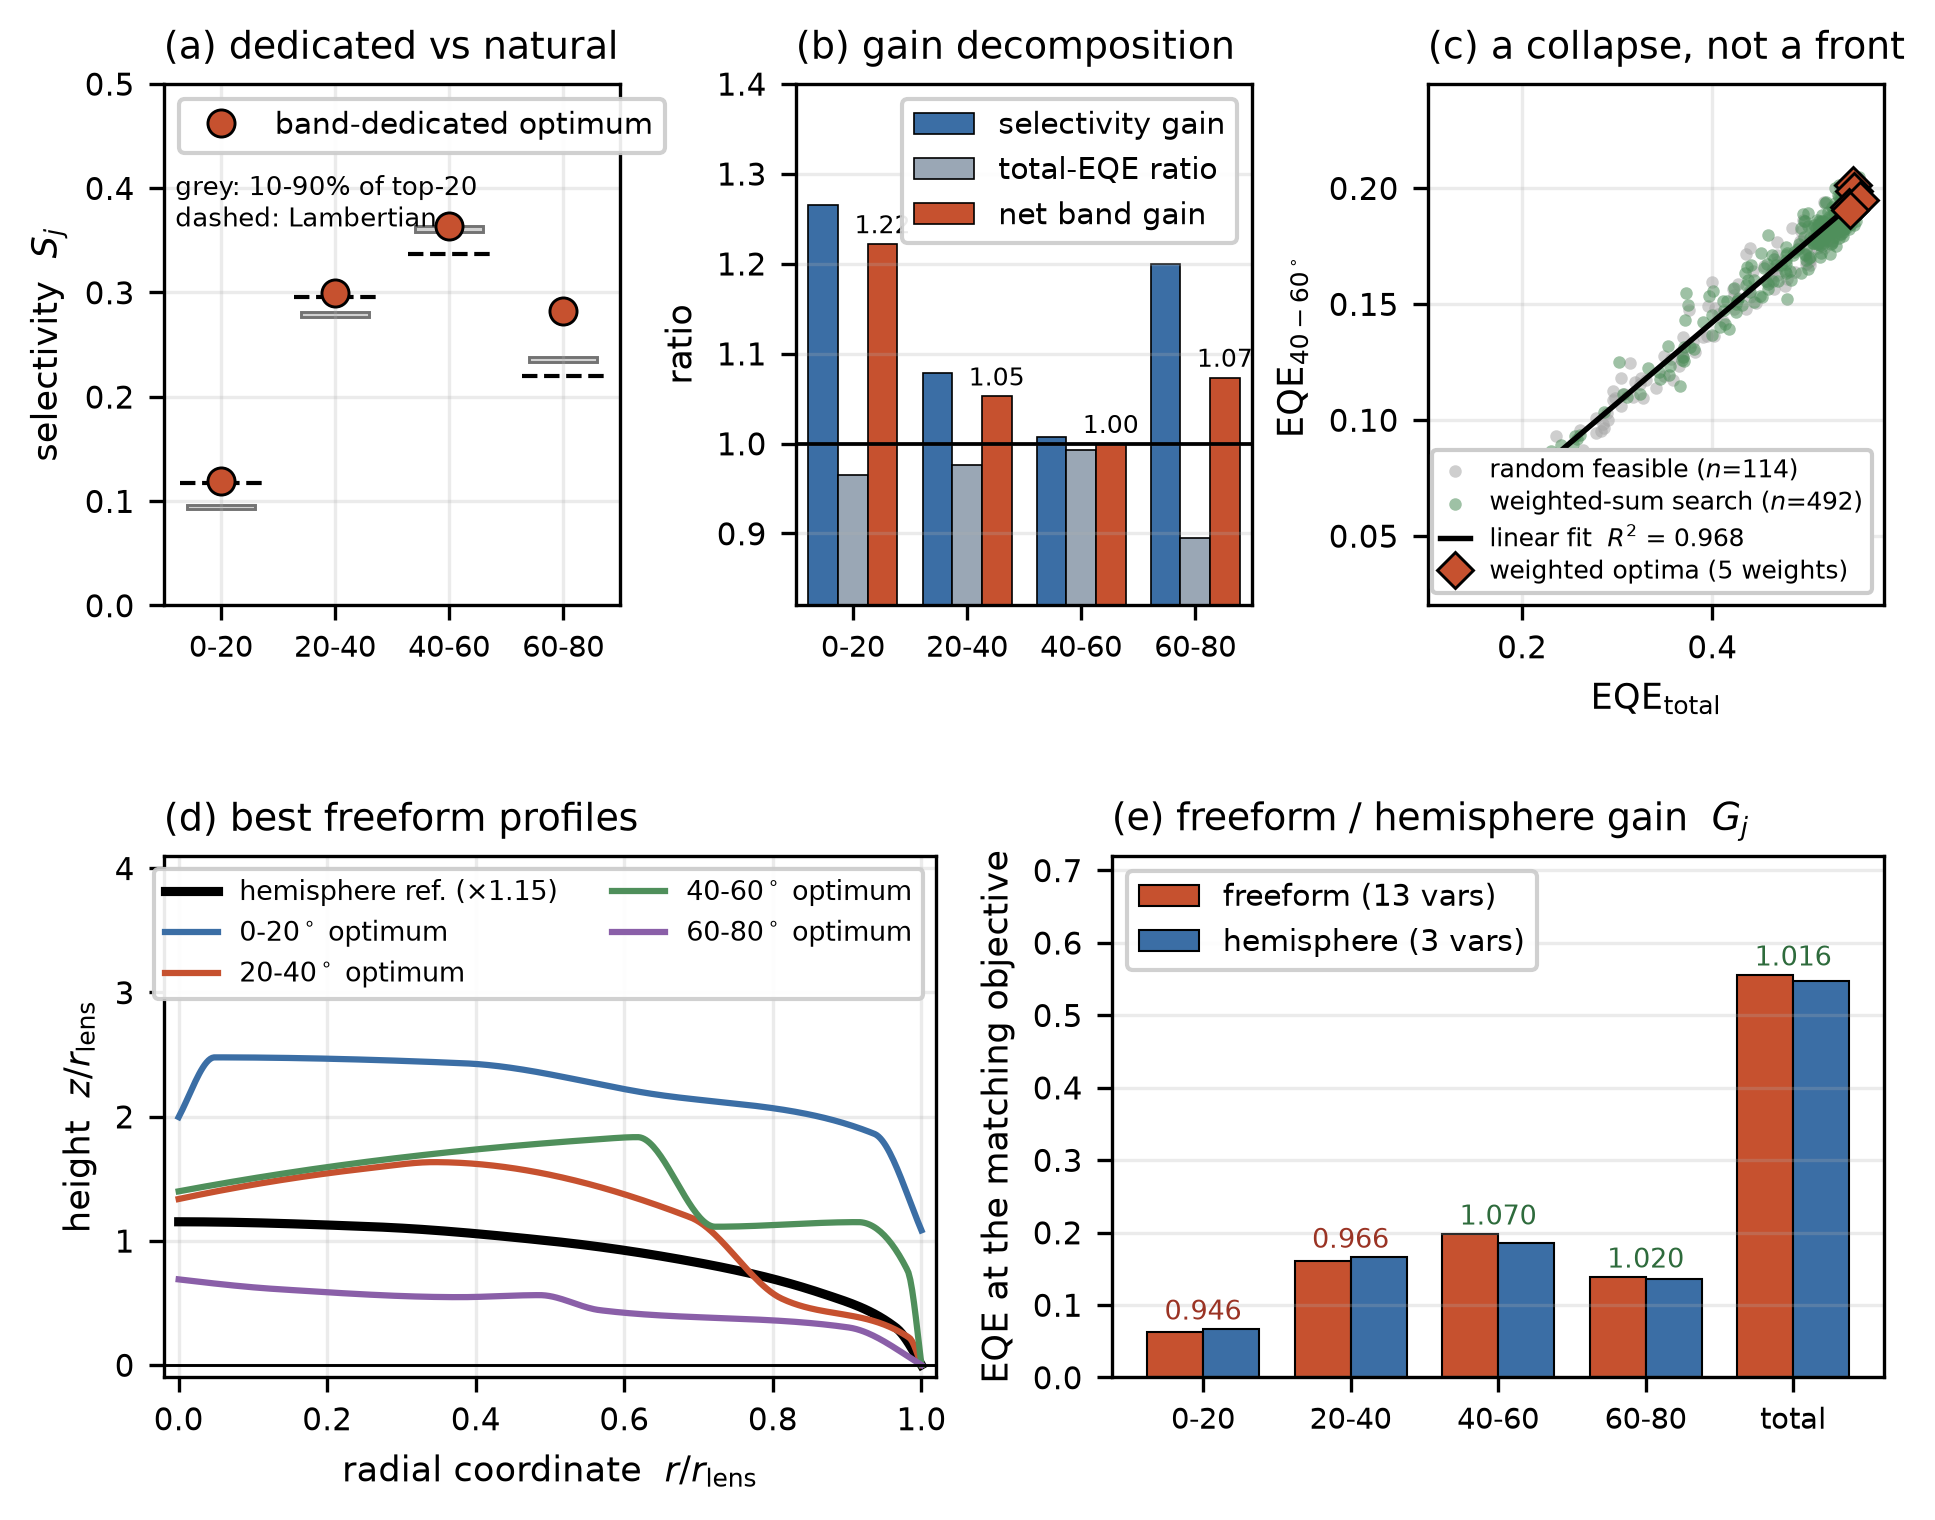
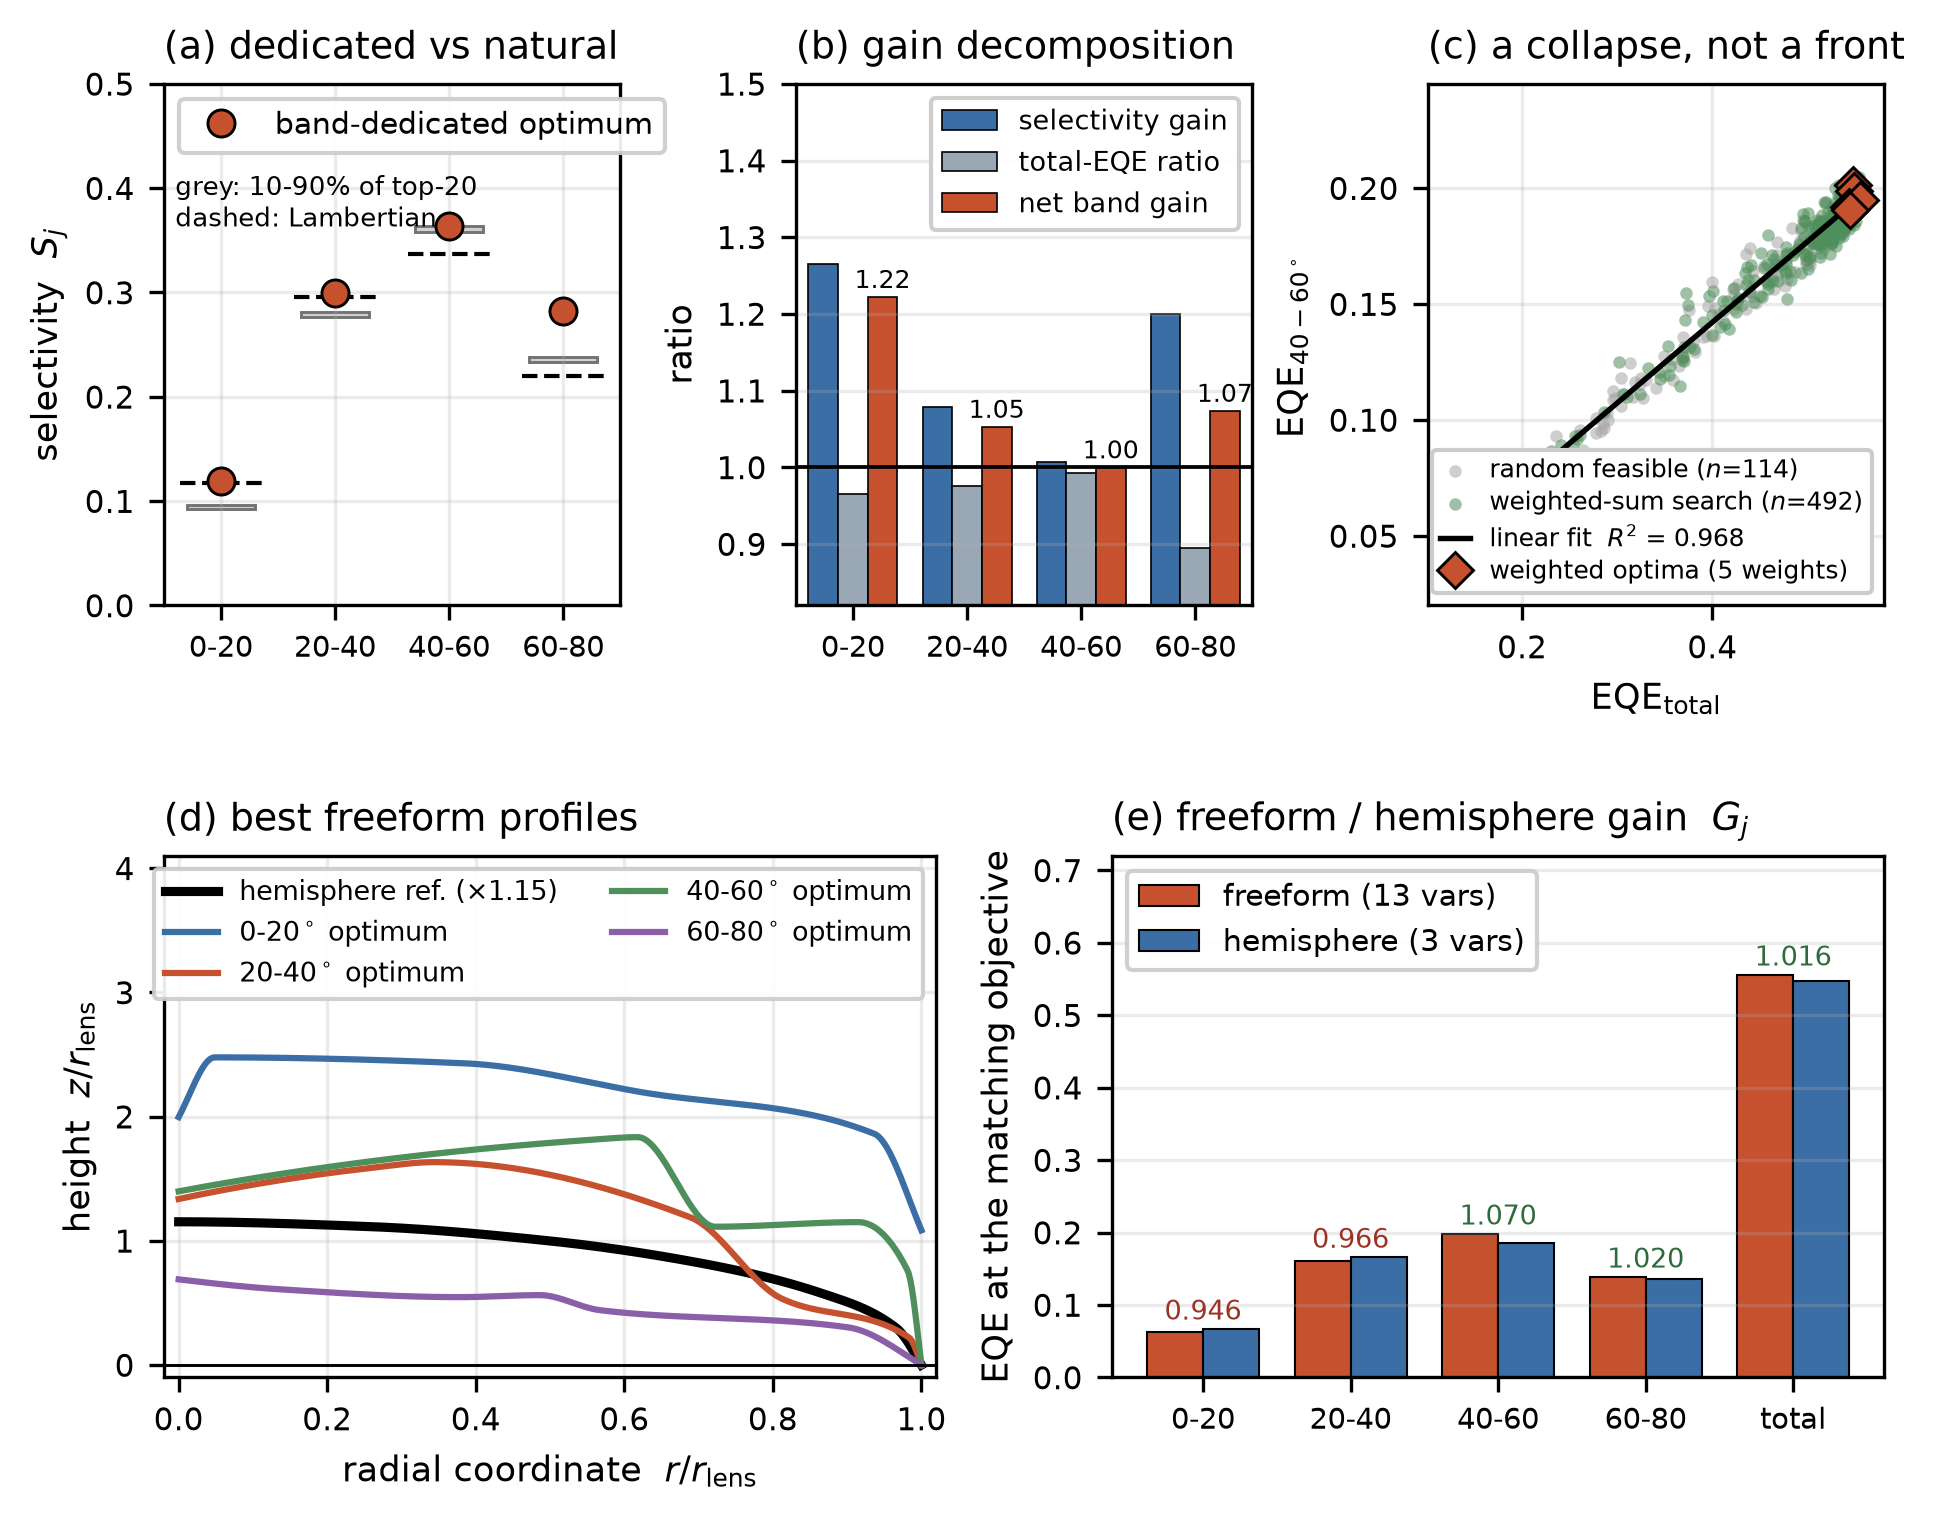
Re-render the figure set and align two counts with it
Regenerated all five figures. Fig. 2b's 0-20 net-gain label was clipped by the
legend; raised the axis to clear it. No data or numbers changed.

While cross-checking captions against panels, corrected the population size
behind the reported correlations: R is computed over the 606 usable evaluations,
not all 691 logged (85 traces returned no positive total EQE). The archived
R_corr reproduces exactly on the 606-row set, so the coefficients themselves are
unchanged.

Claude-Session: https://claude.ai/code/session_01YWogpr6EEdWobKwLNCqjUn

diff --git a/make_figures.py b/make_figures.py
@@ -303,10 +303,10 @@ def fig2():
     for j in range(4):
         ax.text(xx[j] + w, gain_net[j] + 0.012, f'{gain_net[j]:.2f}', ha='center', fontsize=6.0)
     ax.set_xticks(xx); ax.set_xticklabels(BANDS, fontsize=7.0)
-    ax.set_xlim(0.5, 4.5); ax.set_ylim(0.82, 1.40)
+    ax.set_xlim(0.5, 4.5); ax.set_ylim(0.82, 1.50)
     ax.set_ylabel('ratio')
     ax.set_title(r'(b) gain decomposition', loc='left')
-    ax.legend(loc='upper right', framealpha=0.92)
+    ax.legend(loc='upper right', framealpha=0.95, fontsize=6.6)
     ax.grid(alpha=0.25, axis='y')
 
     # ---- (c) Pareto collapse ----

diff --git a/manuscript_draft.md b/manuscript_draft.md
@@ -73,7 +73,7 @@ Against this internal reference, band-dedicated optimization does displace the d
 
 Two observations follow. First, the 40–60° band, the natural target for a directional film, is precisely where dedicated optimization buys nothing (+1% selectivity, net 1.00): the composition that maximizes total extraction already maximizes that band. Second, the largest displacement occurs at 0–20°, where the natural composition is *depleted* relative to Lambertian (0.094 versus 0.117); shape freedom is most effective at restoring a direction that the platform under-serves, not at creating a new one.
 
-The selectivity is, however, not strictly constant, and we report the deviation as a result rather than suppressing it. Across the full sampled population of 691 evaluations, the Pearson correlation $R$ between $\mathrm{EQE}_{\mathrm{total}}$ and $S_j$ is $+0.60$ for 0–20°, $+0.55$ for 20–40°, $-0.12$ for 40–60°, and $-0.57$ for 60–80° (Fig. 3). As total extraction improves, the angular distribution drifts systematically toward lower polar angles; yet the ordering of the bands never inverts—the 40–60° band carries the largest share in every explored design. This drift survives a dedicated convergence check on twenty designs stratified across the efficiency range, re-evaluated with a twenty-fold ray count (200,000 rays), three independent repeats, and broadband 450–750 nm evaluation. That subset gives $+0.59/+0.67/+0.07/-0.70$ at baseline and $+0.61/+0.68/+0.04/-0.70$ at twenty-fold ray count, so the correlations are stable under sampling (Methods 4.3; Supplementary Table S4). The subset values differ somewhat in magnitude from the full-population figures above because the subset is stratified rather than representative; the sign pattern and band ordering are identical in both. It is therefore a real, if small, physical trend, not Monte-Carlo noise or a narrowband artifact. The drift and the tight spread quoted above are consistent: the correlation is evaluated over the whole efficiency range, including designs far from the frontier, whereas the spread is evaluated among the most efficient designs, where the drift has already run its course and the composition has converged.
+The selectivity is, however, not strictly constant, and we report the deviation as a result rather than suppressing it. Across the full sampled population—606 usable evaluations of the 691 logged, the remainder being traces that failed to return a positive total EQE—the Pearson correlation $R$ between $\mathrm{EQE}_{\mathrm{total}}$ and $S_j$ is $+0.60$ for 0–20°, $+0.55$ for 20–40°, $-0.12$ for 40–60°, and $-0.57$ for 60–80° (Fig. 3). As total extraction improves, the angular distribution drifts systematically toward lower polar angles; yet the ordering of the bands never inverts—the 40–60° band carries the largest share in every explored design. This drift survives a dedicated convergence check on twenty designs stratified across the efficiency range, re-evaluated with a twenty-fold ray count (200,000 rays), three independent repeats, and broadband 450–750 nm evaluation. That subset gives $+0.59/+0.67/+0.07/-0.70$ at baseline and $+0.61/+0.68/+0.04/-0.70$ at twenty-fold ray count, so the correlations are stable under sampling (Methods 4.3; Supplementary Table S4). The subset values differ somewhat in magnitude from the full-population figures above because the subset is stratified rather than representative; the sign pattern and band ordering are identical in both. It is therefore a real, if small, physical trend, not Monte-Carlo noise or a narrowband artifact. The drift and the tight spread quoted above are consistent: the correlation is evaluated over the whole efficiency range, including designs far from the frontier, whereas the spread is evaluated among the most efficient designs, where the drift has already run its course and the composition has converged.
 
 A conceptual distinction matters here. Passive optics can redistribute power between position and angle, so étendue conservation by itself does not fix the angular distribution, and we make no claim of absolute invariance. What the data support is a more limited and more practical statement: **within the explored manufacturable freeform class, the magnitude of angular redistribution is small—a weak, monotonic tilt of a few percentage points in selectivity—so the polar-shaping freedom available to a designer is effectively saturated.** This is presented not as a universal theorem but as a reproducible benchmark with quantified uncertainty. It is also consistent with the lens-free result of Song et al. [13]: if a random scattering layer already reaches the efficiency frontier without shaped surfaces, shape can hardly be the carrier of a large independent angular degree of freedom on an extended emitter.
 

diff --git a/manuscript_draft_ko.md b/manuscript_draft_ko.md
@@ -75,7 +75,7 @@ $$
 
 두 가지가 뒤따른다. 첫째, 지향성 필름의 자연스러운 목표인 40–60° band가 바로 전용 최적화의 이득이 없는 구간이다(선택성 +1%, 순이득 1.00). 총 추출을 최대화하는 배광이 이미 그 band를 최대화하고 있기 때문이다. 둘째, 가장 큰 이동은 0–20°에서 일어나는데, 이 구간은 자연 배광이 Lambertian 대비 오히려 **결핍**되어 있다(0.094 vs 0.117). 형상 자유도는 새로운 방향을 만들어내기보다, 플랫폼이 덜 채워 놓은 방향을 되메우는 데 가장 효과적이다.
 
-다만 선택성이 엄밀히 고정된 것은 아니며, **체계적 편류(systematic drift)**가 존재한다. 평가 691회 전체 표본에 대해 총 EQE와 $S_j$의 상관계수를 계산하면 $R(0\text{–}20^\circ)=+0.60$, $R(20\text{–}40^\circ)=+0.55$, $R(40\text{–}60^\circ)=-0.12$, $R(60\text{–}80^\circ)=-0.57$이다. 해석은 명료하다. 효율이 오르면 배광이 저각 쪽으로 약간 기울지만, band 간 순서는 어떤 설계에서도 뒤집히지 않으며 40–60° band가 항상 최대 비중을 유지한다. 이 편류가 Monte-Carlo 노이즈나 협대역 인공물이 아님을 확인하기 위해, 효율 구간에 걸쳐 층화 추출한 설계 20개를 광선 20배(200,000), 3회 독립 반복, 광대역(450–750 nm)으로 재평가하였다. 이 부분표본은 기준 정밀도에서 $+0.59/+0.67/+0.07/-0.70$, 광선 20배에서 $+0.61/+0.68/+0.04/-0.70$ 을 주어 표집에 대해 안정적이다(4.3절 및 보충 표 S4). 부분표본 값이 위의 전체 표본 값과 크기에서 다소 다른 것은 이 표본이 대표 추출이 아니라 층화 추출이기 때문이며, 부호 패턴과 band 순서는 양쪽이 동일하다. 따라서 이 편류는 실재하는 미세 추세이되, 설계자가 활용할 수 있는 독립적인 조향 자유도에는 미치지 못한다. 이 편류와 위에서 제시한 좁은 산포는 서로 모순되지 않는다. 상관계수는 경계에서 멀리 떨어진 설계까지 포함한 전 효율 구간에서 계산한 값이고, 산포는 편류가 이미 진행을 끝내고 배광이 수렴한 최고 효율 설계들 사이에서 계산한 값이기 때문이다.
+다만 선택성이 엄밀히 고정된 것은 아니며, **체계적 편류(systematic drift)**가 존재한다. 전체 표본(기록된 691회 중 유효한 606회, 나머지는 양의 총 EQE를 반환하지 못한 추적)에 대해 총 EQE와 $S_j$의 상관계수를 계산하면 $R(0\text{–}20^\circ)=+0.60$, $R(20\text{–}40^\circ)=+0.55$, $R(40\text{–}60^\circ)=-0.12$, $R(60\text{–}80^\circ)=-0.57$이다. 해석은 명료하다. 효율이 오르면 배광이 저각 쪽으로 약간 기울지만, band 간 순서는 어떤 설계에서도 뒤집히지 않으며 40–60° band가 항상 최대 비중을 유지한다. 이 편류가 Monte-Carlo 노이즈나 협대역 인공물이 아님을 확인하기 위해, 효율 구간에 걸쳐 층화 추출한 설계 20개를 광선 20배(200,000), 3회 독립 반복, 광대역(450–750 nm)으로 재평가하였다. 이 부분표본은 기준 정밀도에서 $+0.59/+0.67/+0.07/-0.70$, 광선 20배에서 $+0.61/+0.68/+0.04/-0.70$ 을 주어 표집에 대해 안정적이다(4.3절 및 보충 표 S4). 부분표본 값이 위의 전체 표본 값과 크기에서 다소 다른 것은 이 표본이 대표 추출이 아니라 층화 추출이기 때문이며, 부호 패턴과 band 순서는 양쪽이 동일하다. 따라서 이 편류는 실재하는 미세 추세이되, 설계자가 활용할 수 있는 독립적인 조향 자유도에는 미치지 못한다. 이 편류와 위에서 제시한 좁은 산포는 서로 모순되지 않는다. 상관계수는 경계에서 멀리 떨어진 설계까지 포함한 전 효율 구간에서 계산한 값이고, 산포는 편류가 이미 진행을 끝내고 배광이 수렴한 최고 효율 설계들 사이에서 계산한 값이기 때문이다.
 
 핵심 결과는 효율과 특정 polar band가 수학적으로 절대 불변이라는 것이 아니다. passive optics는 위치와 각도 사이의 power를 재배분할 수 있으므로, étendue 보존만으로 angular selectivity의 절대적 한계를 주장할 수는 없다. 본 연구가 제시하는 것은 더 제한적이면서도 실용적인 명제다. 즉, **탐색한 제조 가능 freeform class에서는 재배분의 크기가 작아 설계자가 활용할 수 있는 polar-shaping freedom이 사실상 포화한다.** 이 명제는 엄밀한 보편 정리 대신, 재현 가능한 benchmark와 uncertainty를 갖춘 수치적 결과로 제시한다.
 

diff --git a/supplementary.md b/supplementary.md
@@ -91,7 +91,7 @@ twenty-fold ray count and over the full emission band, to establish that the
 drift is neither Monte-Carlo noise nor a narrowband artifact. Because the subset
 is stratified rather than representative, its correlations differ in magnitude
 from the full-population values quoted in Section 2.3
-($+0.60 / +0.56 / -0.12 / -0.57$ over all 691 evaluations); the sign pattern and
+($+0.60 / +0.56 / -0.12 / -0.57$ over all 606 usable of the 691 logged evaluations); the sign pattern and
 band ordering agree.
 
 | Band | baseline | 200,000 rays, ×3 repeats | broadband 450–750 nm |
